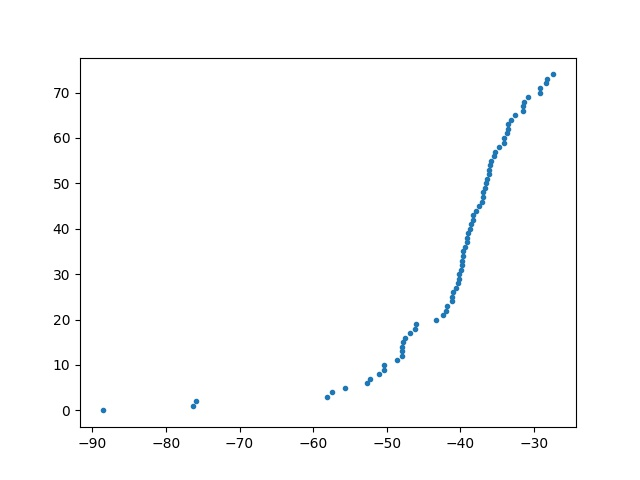
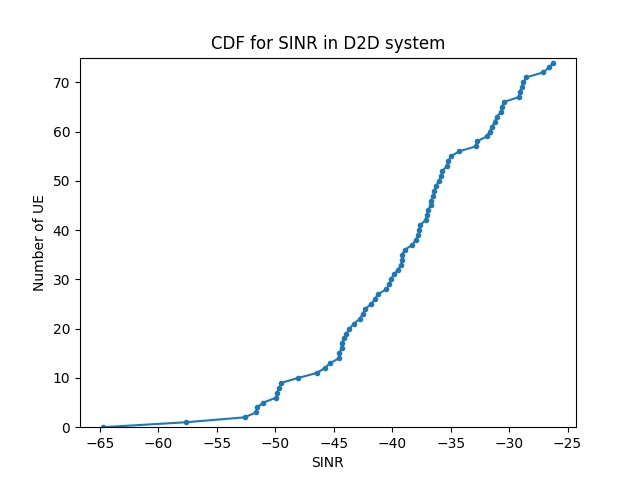
add title

diff --git a/src/hw5/prob1.py b/src/hw5/prob1.py
@@ -223,7 +223,11 @@ if __name__ == "__main__":
             count_lst.append(count)
             count += 1
     sinr_lst.sort()
-    plt.scatter(sinr_lst, count_lst, marker='.')
+    plt.plot(sinr_lst, count_lst, marker='.')
+    plt.title('CDF for SINR in Uplink system')
+    plt.xlabel('SINR')
+    plt.ylabel('Number of UE')
+    plt.ylim([0, UE_NUM])
     plt.savefig('./img/fig1_2_a.jpg')
     plt.close()
     print('problem 1-2a')
@@ -244,7 +248,11 @@ if __name__ == "__main__":
             count_lst.append(count)
             count += 1
     sinr_lst.sort()
-    plt.scatter(sinr_lst, count_lst, marker='.')
+    plt.plot(sinr_lst, count_lst, marker='.')
+    plt.title('CDF for SINR in Downlink system')
+    plt.xlabel('SINR')
+    plt.ylabel('Number of UE')
+    plt.ylim([0, UE_NUM])
     plt.savefig('./img/fig1_2_b.jpg')
     plt.close()
     print('problem 1-2b')
@@ -275,7 +283,11 @@ if __name__ == "__main__":
             count += 1
     sinr_lst.sort()
 
-    plt.scatter(sinr_lst, count_lst, marker='.')
+    plt.plot(sinr_lst, count_lst, marker='.')
+    plt.title('CDF for SINR in D2D system')
+    plt.xlabel('SINR')
+    plt.ylabel('Number of UE')
+    plt.ylim([0, UE_NUM])
     plt.savefig('./img/fig1_4.jpg')
     plt.close()
     print('problem 1-4')
@@ -319,7 +331,10 @@ if __name__ == "__main__":
             rate += shannon(sinr)
         rate_lst.append(rate)
         ue_num_lst.append(UE_NUM)
-    plt.scatter(ue_num_lst, rate_lst, marker='.')
+    plt.plot(ue_num_lst, rate_lst, marker='.')
+    plt.title('Total Throughput for Different Number of Pairs')
+    plt.xlabel('Number')
+    plt.ylabel('Throughput')
     plt.savefig('./img/fig1_6.jpg')
     plt.close()
     print('problem 1-6')
@@ -385,7 +400,10 @@ if __name__ == "__main__":
             rate += shannon(sinr)
         rate_lst.append(rate)
         ue_num_lst.append(UE_NUM)
-    plt.scatter(ue_num_lst, rate_lst, marker='.')
+    plt.plot(ue_num_lst, rate_lst, marker='.')
+    plt.title('Total Throughput for Different Number of Pairs')
+    plt.xlabel('Number')
+    plt.ylabel('Throughput')
     plt.savefig('./img/figbonus_1.jpg')
     plt.close()
     print('Bonus-1')
